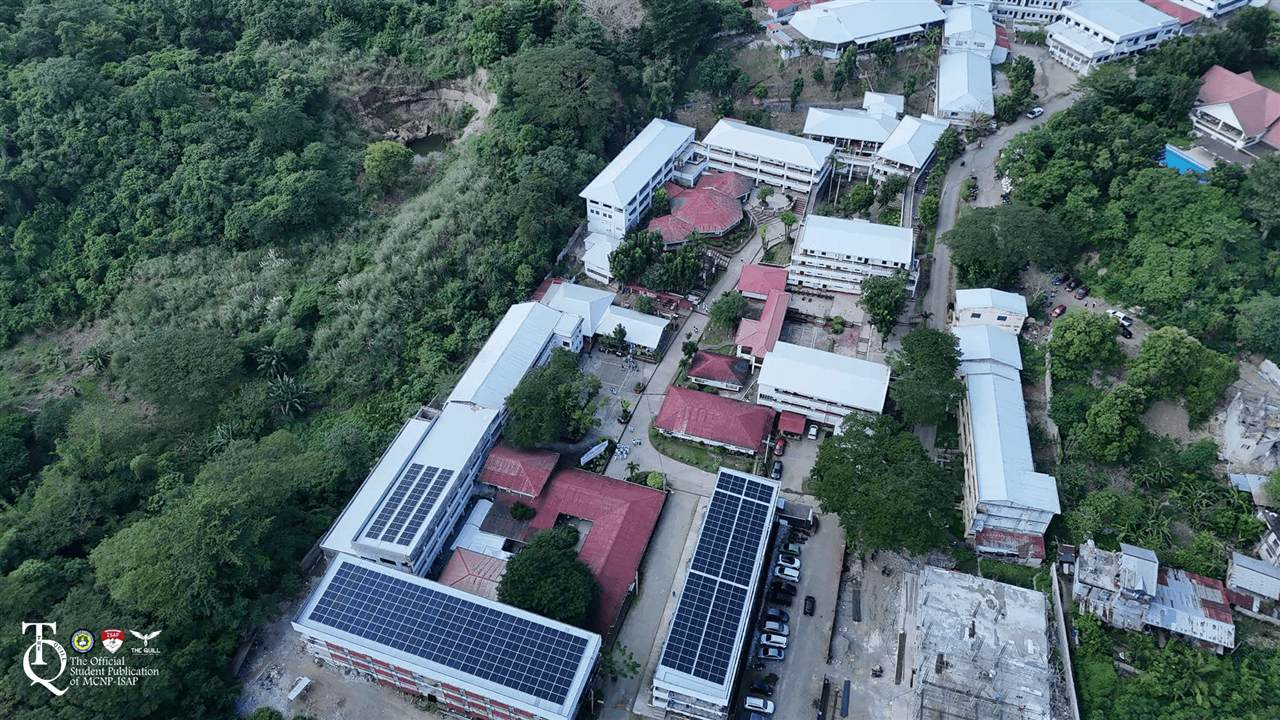
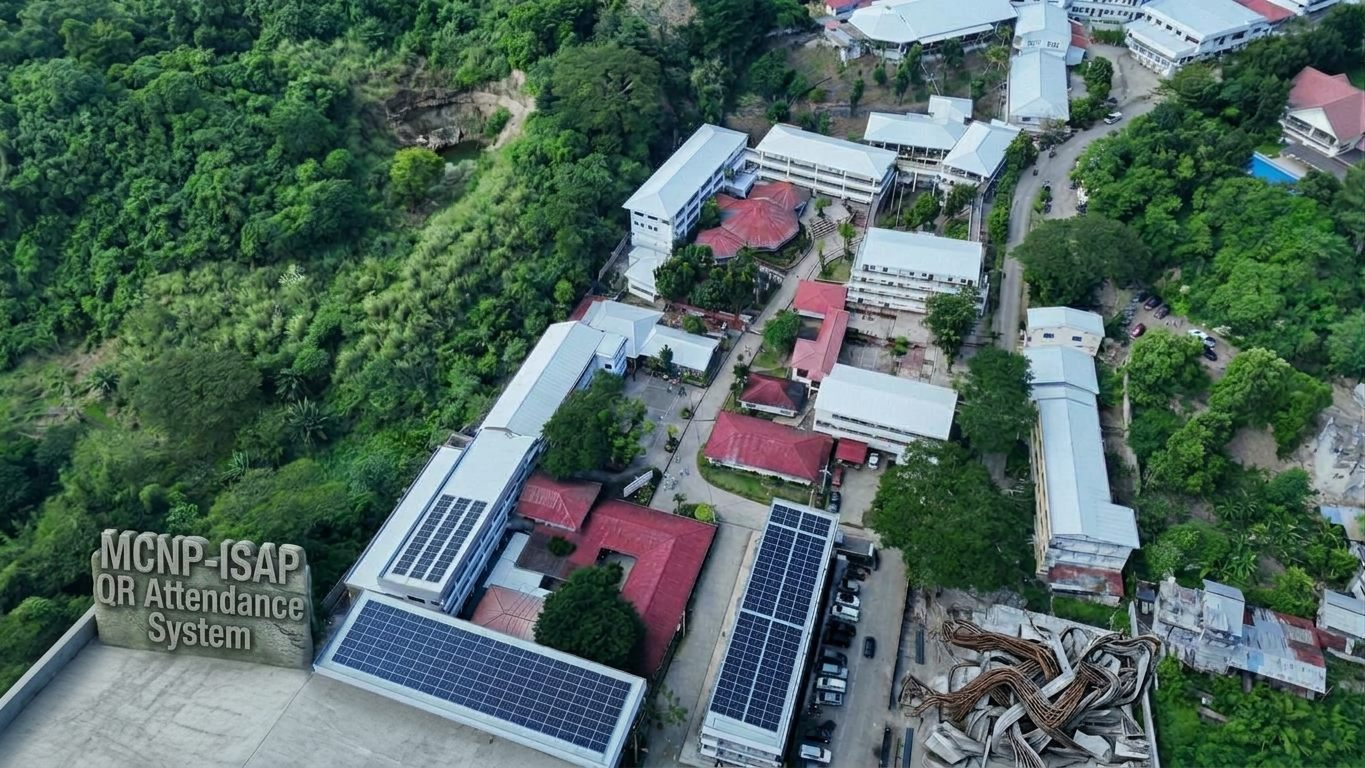
Use the new campus photo as the forgot/reset password background + footer
Swaps login-bg.jpg for the user-supplied aerial campus render (used by
.lg-body's duotone/slash-reveal background, which login.php no longer
references since it dropped its photo panel -- safe to reuse the filename).

Adds a footer to includes/auth_page.php (forgot_password.php and
reset_password.php share this shell): a frosted, fixed bar at the bottom
of the viewport so the same fixed background photo shows through it
(blurred, for legibility) rather than sitting on a plain surface, with the
same copyright/"Secure institutional access" content as login.php's footer.

diff --git a/attendance-system/assets/css/style.css b/attendance-system/assets/css/style.css
@@ -727,7 +727,13 @@ table.data-table{width:100%;border-collapse:collapse;font-size:13.5px}
     background-image:var(--bg-grad);opacity:.42;pointer-events:none}
 :root[data-theme="dark"] .lg-body::before{opacity:.3}
 :root[data-theme="dark"] .lg-body::after{opacity:.82}
-.lg-wrap{position:relative;z-index:1;width:100%;max-width:420px}
+.lg-wrap{position:relative;z-index:1;width:100%;max-width:420px;padding-bottom:64px}
+.lg-photo-footer{position:fixed;left:0;right:0;bottom:0;z-index:2;display:flex;align-items:center;justify-content:space-between;
+    gap:12px;flex-wrap:wrap;padding:14px clamp(16px,4vw,40px);
+    background:rgba(255,255,255,.68);backdrop-filter:blur(10px);-webkit-backdrop-filter:blur(10px);
+    border-top:1px solid rgba(255,255,255,.4);font-size:12.5px;color:var(--slate-700)}
+.lg-photo-footer .login-footer-secure{display:flex;align-items:center;gap:7px}
+:root[data-theme="dark"] .lg-photo-footer{background:rgba(10,19,40,.6);border-top-color:rgba(255,255,255,.08);color:var(--slate-400)}
 .lg-sr{position:absolute;width:1px;height:1px;overflow:hidden;clip:rect(0 0 0 0);white-space:nowrap}
 .lg-brand{text-align:center;margin-bottom:24px;animation:lgIn .32s cubic-bezier(.23,1,.32,1) both}
 .lg-logo{display:block;width:72px;height:72px;margin:0 auto 14px;border-radius:50%;object-fit:cover;

diff --git a/attendance-system/includes/auth_page.php b/attendance-system/includes/auth_page.php
@@ -43,6 +43,10 @@ function auth_page_end(): void {
     </section>
     <p class="lg-help">Need help? Contact the MCNP-ISAP IT Services or Laboratory Department.</p>
 </main>
+<footer class="lg-photo-footer">
+    <span>&copy; 2026 MCNP&ndash;ISAP. All rights reserved.</span>
+    <span class="login-footer-secure"><i class="fa-solid fa-shield-halved" aria-hidden="true"></i> Secure institutional access</span>
+</footer>
 </body>
 </html>
 <?php
